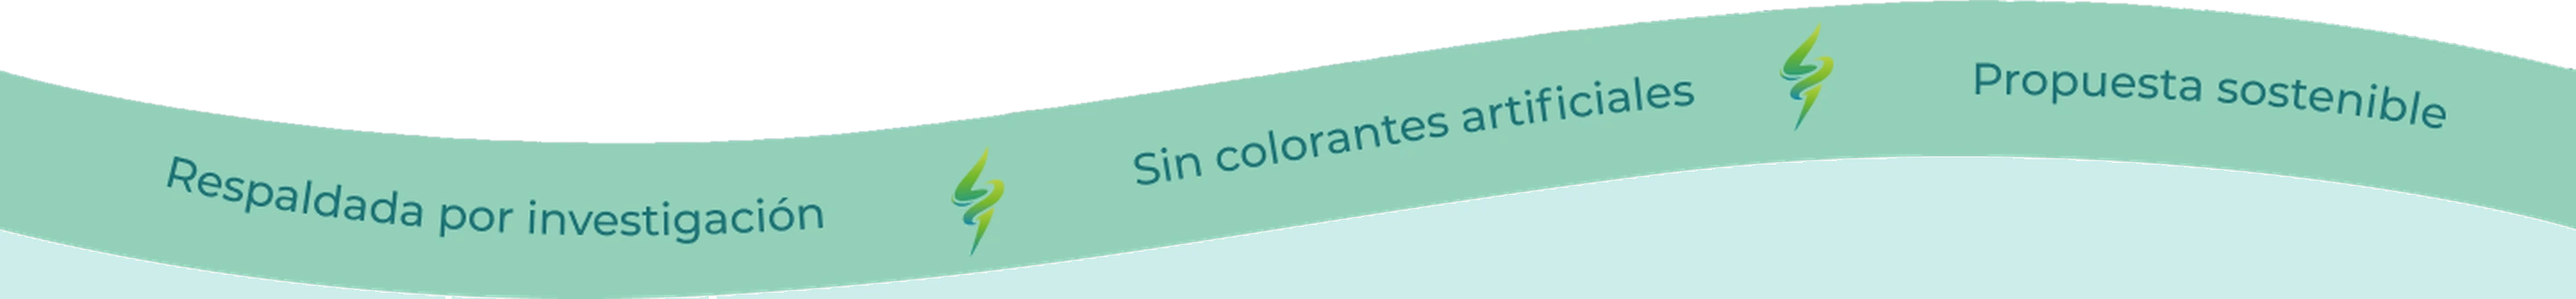
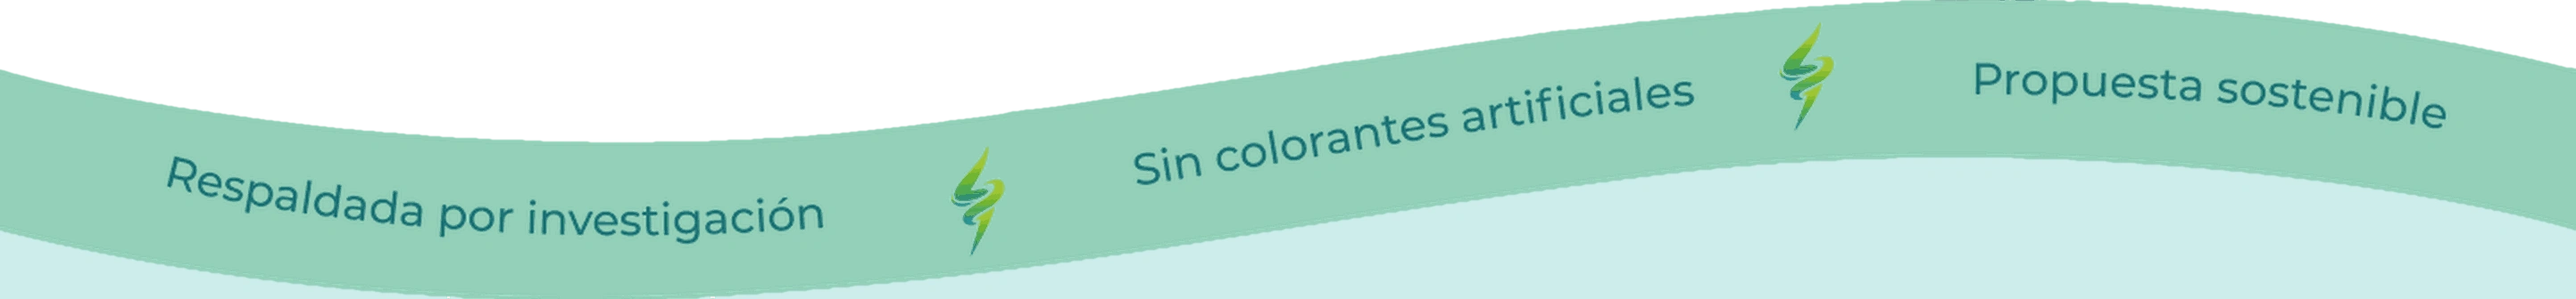
Slider, cinta, cultivo y Unete como el figma
- Slider: contorno de CITRUS/REBEL en #248784, pastillas un 10% mas largas, marca de agua con la punta redondeada (ya no parece cortada) y mascara del video del agua dentro del cuadro (sin linea de corte).
- Cinta del hero recompuesta con bordes suaves y sin la franja oscura del recorte.
- "SPIR UP no compite" (sin la n).
- Del cultivo a la Lata: circulos mas grandes, flechas cortas centradas y espacios del figma.
- Unete: titulo en #0281AE y cortes de linea fijos como el figma (en movil corre normal).

diff --git a/wp-content/themes/astra-child/style.css b/wp-content/themes/astra-child/style.css
@@ -944,19 +944,19 @@ html { scroll-behavior: smooth; scroll-padding-top: 118px; }  /* la cabecera fij
 	font-weight: 800;
 	line-height: 1.12;
 	letter-spacing: -0.01em;
-	font-size: clamp(26px, 2.9vw, 50px);
-	margin: 0 0 6px;
+	font-size: clamp(28px, 3.6vw, 60px);   /* medidas del figma (frame 1441): titulo ~52px */
+	margin: 0 0 4px !important;   /* el tema mete .7em bajo los h2: el subtitulo va pegado como en el figma */
 }
 .spirup-cultivo__sub {
 	color: #4d6266;
-	font-size: clamp(14px, 1.35vw, 24px);
-	margin: 0 0 clamp(34px, 5.2vw, 90px);
+	font-size: clamp(15px, 1.6vw, 26px);
+	margin: 0 0 clamp(26px, 3.6vw, 60px);   /* figma: ~52px hasta los circulos */
 }
 .spirup-cultivo__timeline { display: none; }   /* solo movil (columna vertical) */
 .spirup-cultivo__flow {
-	--cs-d: clamp(96px, 10.5vw, 160px);   /* diametro del circulo */
+	--cs-d: clamp(104px, 12.6vw, 184px);  /* diametro del circulo (figma ~182px a 1441) */
 	--cs-g: clamp(16px, 3vw, 60px);       /* separacion entre columnas */
-	--cs-m: 1.1vw;                        /* aire entre circulo y flecha */
+	--cs-a: clamp(44px, 6.2vw, 90px);     /* largo de la flecha (figma ~89px), centrada entre circulos */
 	list-style: none; margin: 0 auto; padding: 0; max-width: 1320px;   /* columnas anchas: las lineas del figma entran sin cortarse */
 	display: grid; grid-template-columns: repeat(3, 1fr); gap: var(--cs-g);
 }
@@ -965,7 +965,7 @@ html { scroll-behavior: smooth; scroll-padding-top: 118px; }  /* la cabecera fij
 	display: flex; align-items: center; justify-content: center;
 	width: var(--cs-d); height: var(--cs-d); border-radius: 50%;
 	border: 3px solid #1f86c4; box-sizing: border-box;
-	margin: 0 auto clamp(14px, 1.8vw, 30px);
+	margin: 0 auto clamp(16px, 2.6vw, 42px);   /* figma: ~40px entre circulo y "EL ORIGEN" */
 }
 .cs__circle img { width: 66%; height: auto; display: block; }
 /* Circulo con foto: la foto llena el circulo (recorte redondo) */
@@ -974,19 +974,19 @@ html { scroll-behavior: smooth; scroll-padding-top: 118px; }  /* la cabecera fij
 .cs__circle--foto img { width: 100%; height: 100%; object-fit: cover; border-radius: 50%; }
 /* Titulos en MAYUSCULA (Montserrat bold, como el figma) y descripciones mas grandes */
 .cs h3 { margin: 0 0 .5em; color: #EC7A04; font-family: var(--font-body) !important; font-weight: 700; text-transform: uppercase; letter-spacing: .01em; line-height: 1.2; font-size: clamp(16px, 1.65vw, 30px); }
-.cs p { margin: 0 auto; color: #4d6266; line-height: 1.4; font-size: clamp(12px, 1.35vw, 24px); white-space: nowrap; }   /* nowrap: solo cortan los <br> => 3 lineas en las tres */
-/* flecha (linea + punta) desde el borde de un circulo hasta el siguiente */
+.cs p { margin: 0 auto; color: #4d6266; line-height: 1.4; font-size: clamp(12px, 1.45vw, 25px); white-space: nowrap; }   /* nowrap: solo cortan los <br> => 3 lineas en las tres */
+/* flecha CORTA (linea + punta) centrada entre un circulo y el siguiente (figma) */
 .cs:not(:last-child)::after {
 	content: ""; position: absolute; height: 2px; background: #1f86c4;
 	top: calc(var(--cs-d) / 2 - 1px);
-	left: calc(50% + var(--cs-d) / 2 + var(--cs-m));
-	width: calc(100% + var(--cs-g) - var(--cs-d) - 2 * var(--cs-m));
+	left: calc(100% + var(--cs-g) / 2 - var(--cs-a) / 2);
+	width: var(--cs-a);
 }
 .cs:not(:last-child)::before {
-	content: ""; position: absolute; width: 10px; height: 10px;
+	content: ""; position: absolute; width: 9px; height: 9px;
 	border-top: 2px solid #1f86c4; border-right: 2px solid #1f86c4;
-	top: calc(var(--cs-d) / 2 - 6px);
-	left: calc(150% + var(--cs-g) - var(--cs-d) / 2 - var(--cs-m) - 12px);
+	top: calc(var(--cs-d) / 2 - 5.5px);
+	left: calc(100% + var(--cs-g) / 2 + var(--cs-a) / 2 - 11px);
 	transform: rotate(45deg);
 }
 
@@ -1321,6 +1321,8 @@ html { scroll-behavior: smooth; scroll-padding-top: 118px; }  /* la cabecera fij
 
 /* Marca de agua (rayo/swoosh) detras de la lata: SVG trazado del figma (Group 77),
    mismo tamano y lugar: x 514-1075 / y 109-790 del frame 1441x893 (recortado 80px arriba). */
+/* Misma forma y posicion; la punta superior ya no termina en un hilo horizontal (parecia
+   un corte): se remata redondeada y con bordes suaves. */
 .spirup-showcase__wm {
 	position: absolute; left: 35.7%; top: 3.8%;
 	width: 38.9%; height: auto; z-index: 0; pointer-events: none;
@@ -1334,12 +1336,12 @@ html { scroll-behavior: smooth; scroll-padding-top: 118px; }  /* la cabecera fij
 	font-family: var(--font-title); font-weight: 800; letter-spacing: .01em;
 	font-size: clamp(54px, 10.5vw, 150px); line-height: 1;
 	color: transparent;
-	-webkit-text-stroke: 2px #8cc4c0;      /* contorno teal (citrus) */
-	text-stroke: 2px #8cc4c0;
+	-webkit-text-stroke: 2px #248784;      /* contorno teal #248784 (figma), igual en CITRUS y REBEL */
+	text-stroke: 2px #248784;
 }
 .spirup-showcase__slide.is-rebel .spirup-showcase__word {
-	-webkit-text-stroke: 2px #9fd0cb;
-	text-stroke: 2px #9fd0cb;
+	-webkit-text-stroke: 2px #248784;
+	text-stroke: 2px #248784;
 }
 
 /* Copy de la izquierda */
@@ -1358,10 +1360,11 @@ html { scroll-behavior: smooth; scroll-padding-top: 118px; }  /* la cabecera fij
    -4.47 / +4.2 (figma gira antihorario => en CSS el signo va al reves). */
 .spirup-showcase__pills { position: absolute; left: 81.6%; top: 50%; transform: translate(-50%, -50%); z-index: 4; margin: 0; padding: 0; list-style: none; display: flex; flex-direction: column; align-items: center; gap: clamp(3px, .35vw, 5px); }   /* pastillas casi pegadas, igual que en movil (figma) */
 .spirup-showcase__pills .pill { font-family: var(--font-title); font-weight: 800; border-radius: 999px; line-height: 1; white-space: nowrap; box-sizing: border-box; display: inline-flex; align-items: center; justify-content: center; height: clamp(48px, 4.5vw, 68px); padding: 0 1.1em; font-size: clamp(15px, 1.6vw, 24px); box-shadow: none; }
-.spirup-showcase__pills .pill--1 { width: clamp(124px, 11.92vw, 172px); transform: rotate(4.47deg); }
-.spirup-showcase__pills .pill--2 { width: clamp(152px, 14.6vw, 211px);  transform: rotate(-4.2deg); }
-.spirup-showcase__pills .pill--3 { width: clamp(124px, 11.92vw, 172px); transform: rotate(4.47deg); }
-.spirup-showcase__pills .pill--4 { width: clamp(170px, 16.35vw, 236px); transform: rotate(-4.2deg); }
+/* un 10% mas largas (pedido del cliente) */
+.spirup-showcase__pills .pill--1 { width: clamp(136px, 13.1vw, 190px); transform: rotate(4.47deg); }
+.spirup-showcase__pills .pill--2 { width: clamp(167px, 16.1vw, 232px); transform: rotate(-4.2deg); }
+.spirup-showcase__pills .pill--3 { width: clamp(136px, 13.1vw, 190px); transform: rotate(4.47deg); }
+.spirup-showcase__pills .pill--4 { width: clamp(187px, 18vw, 260px);   transform: rotate(-4.2deg); }
 /* Colores Citrus */
 .is-citrus .pill--1 { background: #86ccd3; color: #164e57; }
 .is-citrus .pill--2 { background: #c2e14f; color: #164e57; }
@@ -1379,8 +1382,10 @@ html { scroll-behavior: smooth; scroll-padding-top: 118px; }  /* la cabecera fij
 	transform: translate(-50%, -50%);
 	width: 50%; height: auto; z-index: 2;   /* splash grande, como el figma */
 	pointer-events: none; mix-blend-mode: normal;
-	-webkit-mask-image: radial-gradient(ellipse 62% 62% at 50% 50%, #000 62%, transparent 94%);
-	mask-image: radial-gradient(ellipse 62% 62% at 50% 50%, #000 62%, transparent 94%);
+	/* La elipse de la mascara queda DENTRO del video (50%/50% = toca los bordes) y se desvanece
+	   del todo antes del borde => el rectangulo del video ya no deja una linea de corte. */
+	-webkit-mask-image: radial-gradient(ellipse 50% 50% at 50% 50%, #000 52%, transparent 96%);
+	mask-image: radial-gradient(ellipse 50% 50% at 50% 50%, #000 52%, transparent 96%);
 	opacity: 0; transition: opacity .5s ease;
 }
 [data-splash-video].is-playing .spirup-showcase__video { opacity: 1; }
@@ -1645,16 +1650,17 @@ html { scroll-behavior: smooth; scroll-padding-top: 118px; }  /* la cabecera fij
 	text-align: center;
 }
 .spirup-parte9__title {
-	color: #1585a3;
+	color: #0281AE;   /* azul del figma */
 	font-weight: 800;
 	line-height: 1.15;
-	font-size: clamp(24px, 2.8vw, 50px);
+	font-size: clamp(24px, 3.2vw, 54px);
 	margin: 0 0 clamp(18px, 1.6vw, 44px);
 }
 .spirup-parte9__lead {
 	color: #2b3f43;   /* mas oscuro (antes #566a6d, se veia lavado) */
 	line-height: 1.55;
-	font-size: clamp(14px, 1.05vw, 28px);
+	white-space: nowrap;   /* escritorio: solo cortan los <br class="br-d"> (mismas 2 lineas que el figma) */
+	font-size: clamp(14px, 1.15vw, 28px);
 	margin: 0 auto clamp(14px, 1.1vw, 28px);
 	max-width: 52em;
 }
@@ -2584,7 +2590,8 @@ html { scroll-behavior: smooth; scroll-padding-top: 118px; }  /* la cabecera fij
 
 	/* --- 15. "Unete al lanzamiento": parrafos ordenados -------------------- */
 	.spirup-parte9__title { font-size: min(7vw, 30px); line-height: 1.2; max-width: 18ch; margin-left: auto; margin-right: auto; }
-	.spirup-parte9__lead { font-size: min(4.3vw, 19px); line-height: 1.45; max-width: 26ch; margin-left: auto; margin-right: auto; }
+	.spirup-parte9__lead { font-size: min(4.3vw, 19px); line-height: 1.45; max-width: 26ch; margin-left: auto; margin-right: auto; white-space: normal; }
+	.spirup-parte9__lead .br-d { display: none; }   /* en movil el texto corre normal */
 
 	/* --- 16. Footer: logo mas grande y enlaces ordenados ------------------- */
 	.spirup-footer__inner { gap: min(5.6vw, 28px); }

diff --git a/wp-content/themes/astra-child/functions.php b/wp-content/themes/astra-child/functions.php
@@ -426,12 +426,13 @@ function spirup_text_fields() {
 		'micro_item1'     => array( 'micro', 'Ítem 1', 'No es una gaseosa común', 'text' ),
 		'micro_item2'     => array( 'micro', 'Ítem 2', 'No es una bebida energizante', 'text' ),
 		'micro_item3'     => array( 'micro', 'Ítem 3 (con check)', 'Es una nueva forma de nutrirte y disfrutar', 'text' ),
-		'micro_claim1'    => array( 'micro', 'Frase final (línea 1)', 'SPIR UP no compiten contra otras gaseosas,', 'text' ),
+		'micro_claim1'    => array( 'micro', 'Frase final (línea 1)', 'SPIR UP no compite contra otras gaseosas,', 'text' ),
 		'micro_claim2'    => array( 'micro', 'Frase final (línea 2, negrita)', 'SPIR UP crea una nueva categoría', 'text' ),
 		// Reserva
 		'res_title'       => array( 'reserva', 'Título', 'Únete al lanzamiento exclusivo de SPIR UP', 'textarea' ),
-		'res_lead1'       => array( 'reserva', 'Párrafo 1', 'La primera producción de Spir Up estará disponible para un grupo selecto de personas antes de su lanzamiento oficial.', 'textarea' ),
-		'res_lead2'       => array( 'reserva', 'Párrafo 2', 'Déjanos tu correo y recibe acceso prioritario, novedades exclusivas y la oportunidad de conseguir las primeras unidades.', 'textarea' ),
+		/* Un salto de linea en el texto = salto fijo en escritorio (mismos cortes que el figma) */
+		'res_lead1'       => array( 'reserva', 'Párrafo 1', "La primera producción de Spir Up estará disponible para un grupo selecto de personas\nantes de su lanzamiento oficial.", 'textarea' ),
+		'res_lead2'       => array( 'reserva', 'Párrafo 2', "Déjanos tu correo y recibe acceso prioritario, novedades exclusivas y la oportunidad de\nconseguir las primeras unidades.", 'textarea' ),
 		'res_note'        => array( 'reserva', 'Nota', 'Sin spam. Solo te escribimos cuando llegue tu turno.', 'text' ),
 	);
 }

diff --git a/wp-content/themes/astra-child/front-page.php b/wp-content/themes/astra-child/front-page.php
@@ -289,8 +289,9 @@ $img = get_stylesheet_directory_uri() . '/imagenes';
 	<section class="spirup-parte9" id="reservar">
 		<div class="spirup-parte9__inner">
 			<h2 class="spirup-parte9__title"><?php echo esc_html( spirup_txt( 'res_title' ) ); ?></h2>
-			<p class="spirup-parte9__lead"><?php echo esc_html( spirup_txt( 'res_lead1' ) ); ?></p>
-			<p class="spirup-parte9__lead"><?php echo esc_html( spirup_txt( 'res_lead2' ) ); ?></p>
+			<?php /* Cortes de linea fijos del figma (solo escritorio): un salto en el texto => <br class="br-d"> */ ?>
+			<p class="spirup-parte9__lead"><?php echo str_replace( "\n", "<br class=\"br-d\">\n", esc_html( trim( spirup_txt( 'res_lead1' ) ) ) ); ?></p>
+			<p class="spirup-parte9__lead"><?php echo str_replace( "\n", "<br class=\"br-d\">\n", esc_html( trim( spirup_txt( 'res_lead2' ) ) ) ); ?></p>
 			<form class="spirup-parte9__form" action="#" method="post" onsubmit="return false;">
 				<input type="email" name="email" placeholder="Tu correo electrónico" aria-label="Tu correo electrónico" required>
 				<button type="submit" aria-label="Reservar">
